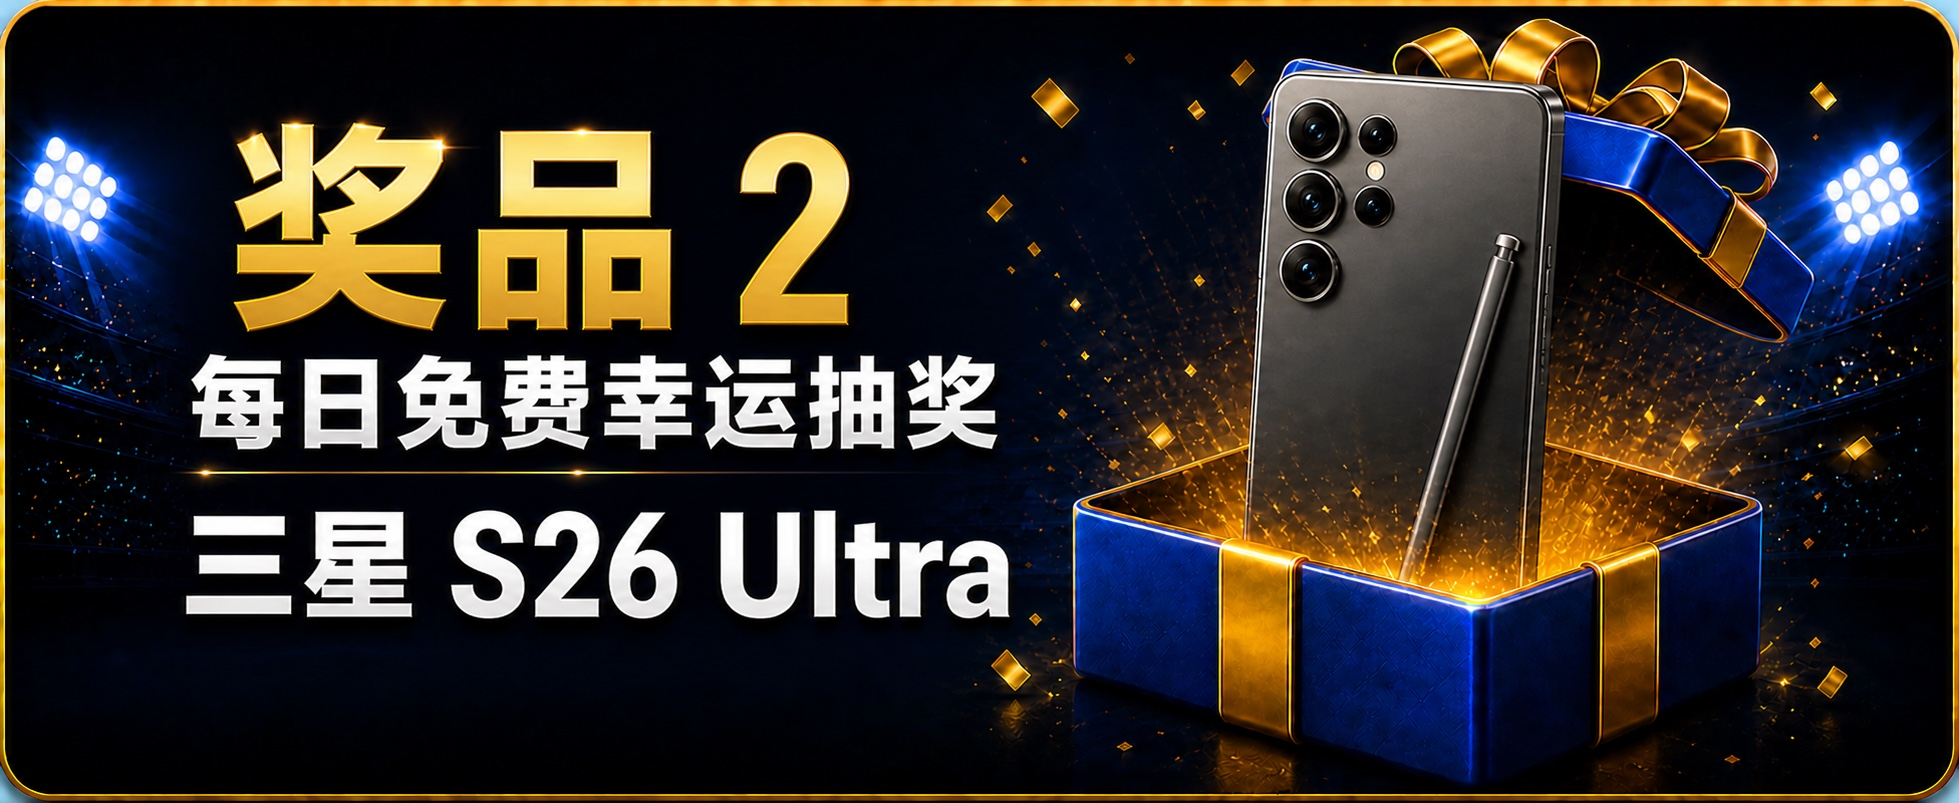
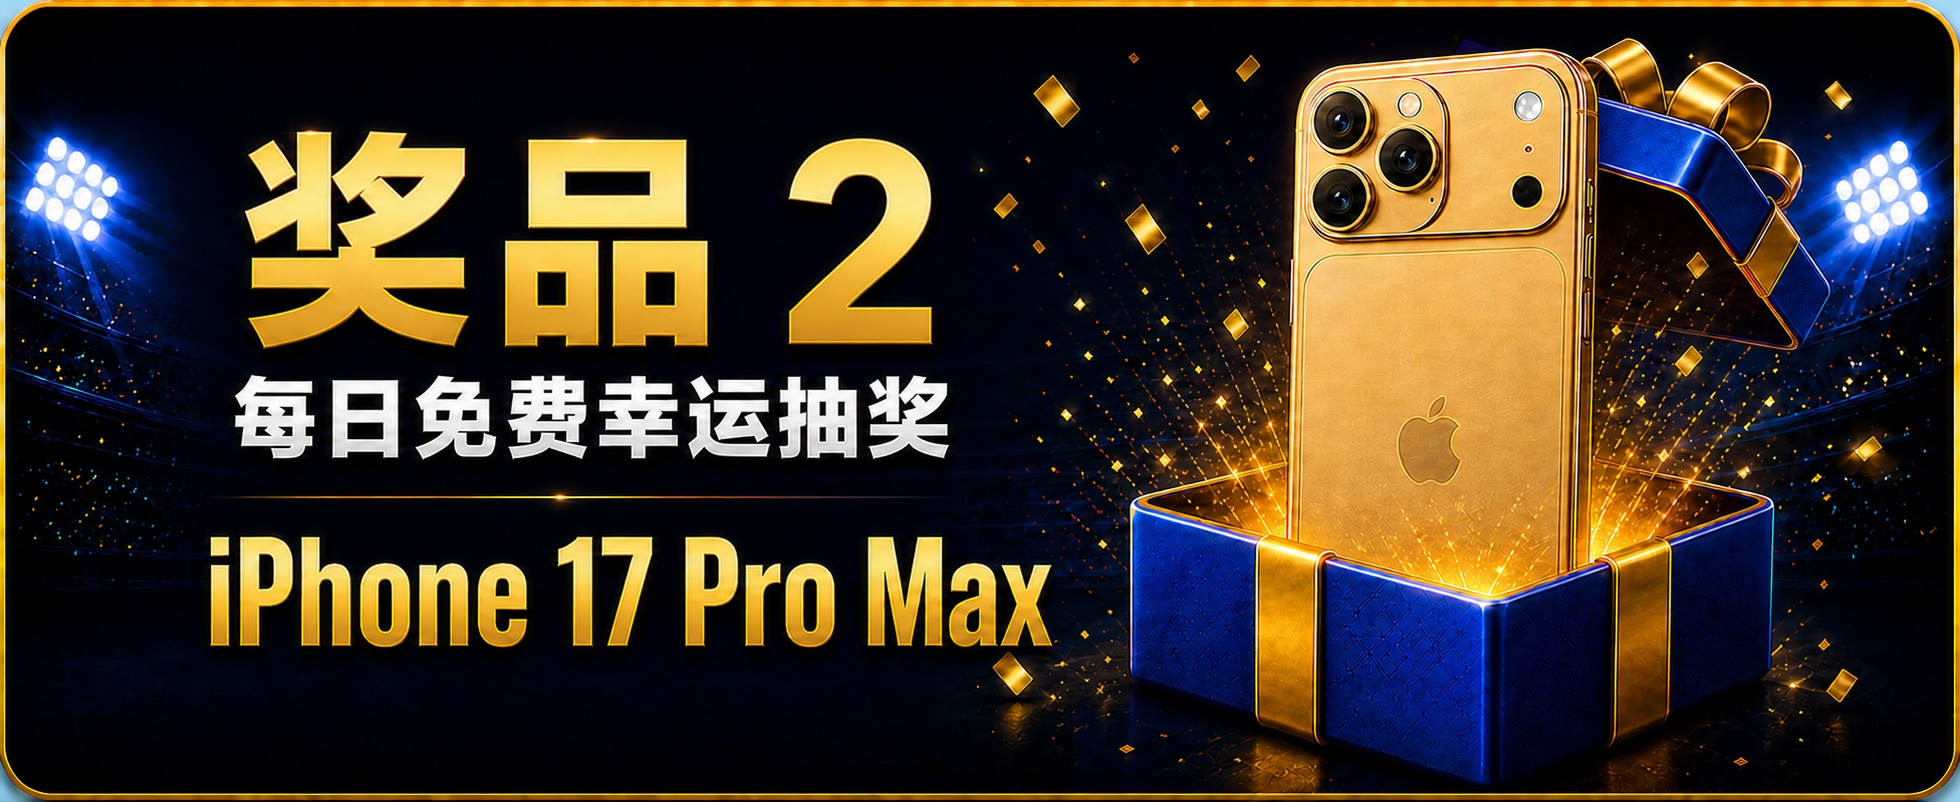
Add turnover reward as first card

diff --git a/index.html b/index.html
@@ -32,26 +32,31 @@
         <div class="reward-image-list">
           <article class="reward-item reward-item-1">
             <div class="reward-image-frame">
-              <img src="assets/reward-card-1.jpg?v=cn-single-1" alt="奖品 1 iPhone 17 Pro Max 每日免费幸运抽奖">
+              <img src="assets/reward-card-1.jpg?v=reward-four-1" alt="奖金 1 流水奖励 最高可获 RM58,888">
             </div>
             <a class="gold-button real-cta" href="https://tinyurl.com/warb01" target="_blank" rel="noopener"><span>立即参加</span><small>Join Now</small></a>
           </article>
 
           <article class="reward-item reward-item-2">
             <div class="reward-image-frame">
-              <img src="assets/reward-card-2.jpg?v=cn-single-1" alt="奖品 2 三星 S26 Ultra 每日免费幸运抽奖">
+              <img src="assets/reward-card-2.jpg?v=reward-four-1" alt="奖品 2 iPhone 17 Pro Max 每日免费幸运抽奖">
             </div>
             <a class="gold-button real-cta" href="https://tinyurl.com/warb01" target="_blank" rel="noopener"><span>立即参加</span><small>Join Now</small></a>
           </article>
 
           <article class="reward-item reward-item-3">
             <div class="reward-image-frame">
-              <img src="assets/reward-card-3.jpg?v=cn-single-1" alt="奖品 3 金条 每日免费幸运抽奖">
+              <img src="assets/reward-card-3.jpg?v=reward-four-1" alt="奖品 3 三星 S26 Ultra 每日免费幸运抽奖">
             </div>
             <a class="gold-button real-cta" href="https://tinyurl.com/warb01" target="_blank" rel="noopener"><span>立即参加</span><small>Join Now</small></a>
           </article>
 
-
+          <article class="reward-item reward-item-4">
+            <div class="reward-image-frame">
+              <img src="assets/reward-card-4.jpg?v=reward-four-1" alt="奖品 4 金条 每日免费幸运抽奖">
+            </div>
+            <a class="gold-button real-cta" href="https://tinyurl.com/warb01" target="_blank" rel="noopener"><span>立即参加</span><small>Join Now</small></a>
+          </article>
         </div>
       </section>
 
